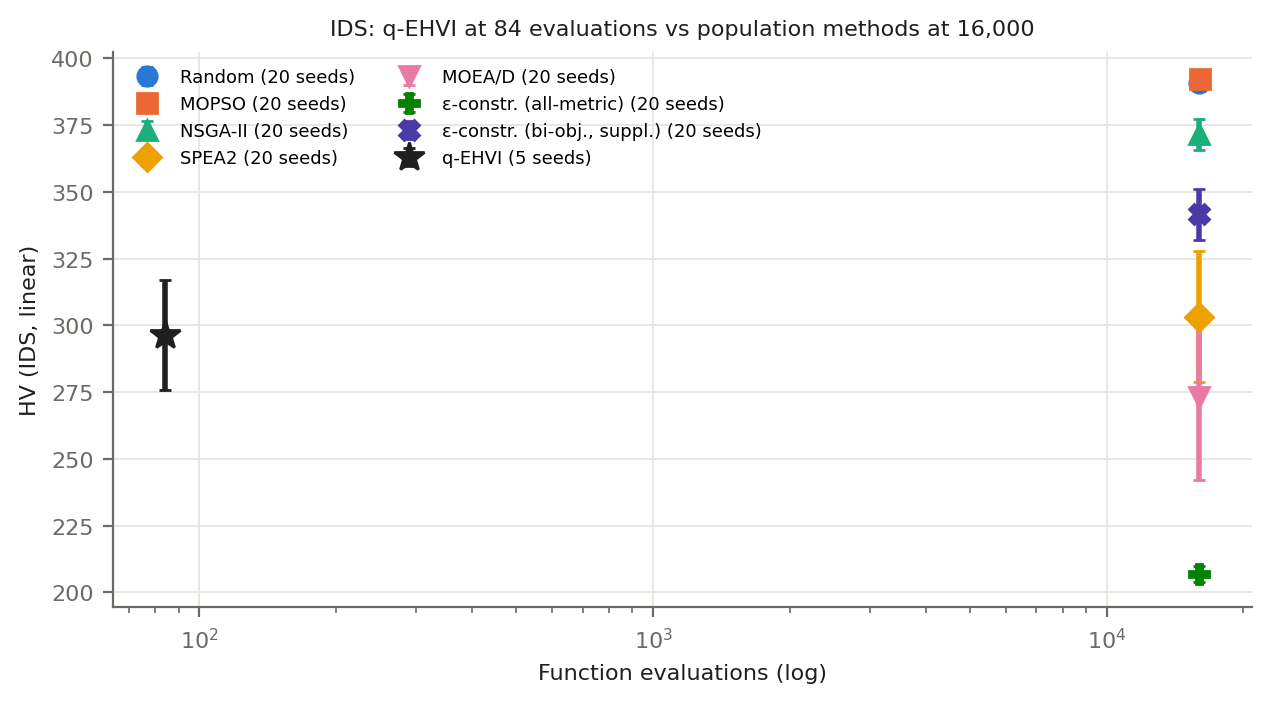
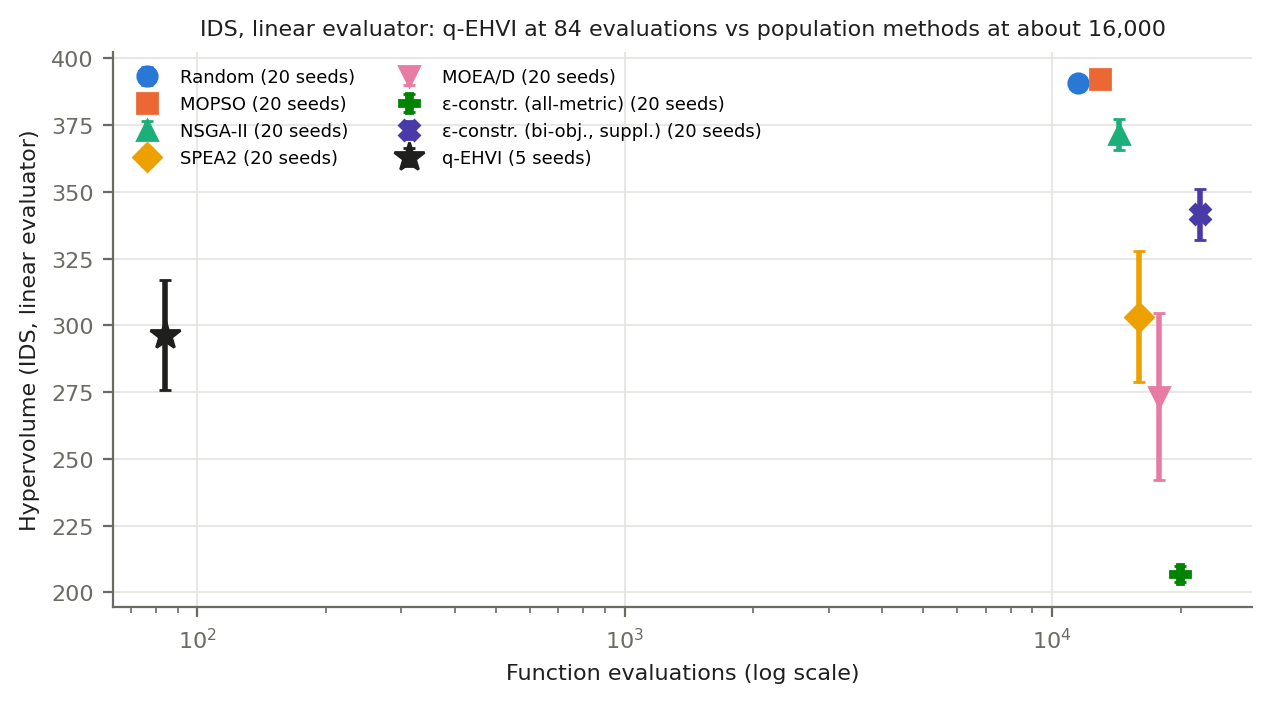
Separate overlapping markers in the q-EHVI comparison figure and label it as linear-evaluator results

diff --git a/src/make_figures_v2.py b/src/make_figures_v2.py
@@ -257,16 +257,21 @@ def fig_bo():
     S = json.loads(p.read_text())
     M = {r["method"]: r for r in read_csv(A / "main_metrics.csv") if r["config"] == "IDS"}
     fig, ax = plt.subplots(figsize=(6.4, 3.6))
-    for m, r in M.items():
-        ax.errorbar(float(r["evals_mean"]), float(r["hv_mean"]), yerr=float(r["hv_sd"]), fmt=MARK[m], color=COLOR[m],
-                    ms=7, capsize=2, label=f"{LABEL[m]} (20 seeds)")
+    # the population methods all use about 16,000 evaluations, so their markers are spread
+    # horizontally around that budget to keep overlapping means (e.g. Random and MOPSO) visible
+    offsets = np.geomspace(0.72, 1.39, len(M))
+    for k, (m, r) in enumerate(M.items()):
+        ax.errorbar(float(r["evals_mean"]) * offsets[k], float(r["hv_mean"]), yerr=float(r["hv_sd"]), fmt=MARK[m],
+                    color=COLOR[m], ms=7, capsize=2, label=f"{LABEL[m]} (20 seeds)")
     if "IDS_linear" in S:
         b = S["IDS_linear"]
         ax.errorbar(b.get("n_evals_actual", 84), b["hv_mean"], yerr=b["hv_std"], fmt="*", color=INK, ms=11, capsize=2,
                     label=f"q-EHVI ({b['n_seeds']} seeds)")
-    ax.set_xscale("log"); ax.set_xlabel("Function evaluations (log)"); ax.set_ylabel("HV (IDS, linear)")
-    ax.legend(fontsize=6.5, ncol=2); ax.set_title("IDS: q-EHVI at 84 evaluations vs population methods at 16,000",
-                                                   fontsize=8, color=INK)
+    ax.set_xscale("log"); ax.set_xlabel("Function evaluations (log scale)")
+    ax.set_ylabel("Hypervolume (IDS, linear evaluator)")
+    ax.legend(fontsize=6.5, ncol=2, loc="upper left")
+    ax.set_title("IDS, linear evaluator: q-EHVI at 84 evaluations vs population methods at about 16,000",
+                 fontsize=8, color=INK)
     fig.tight_layout()
     save(fig, "fig_bo_vs_evolutionary_v2")
 
